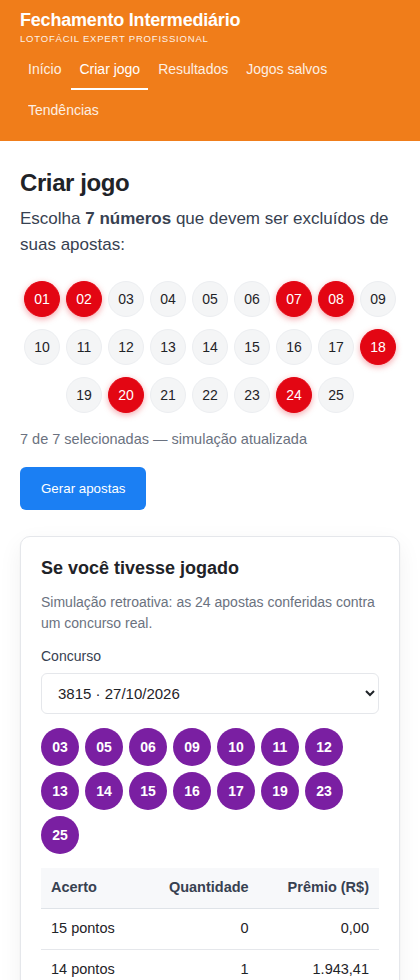
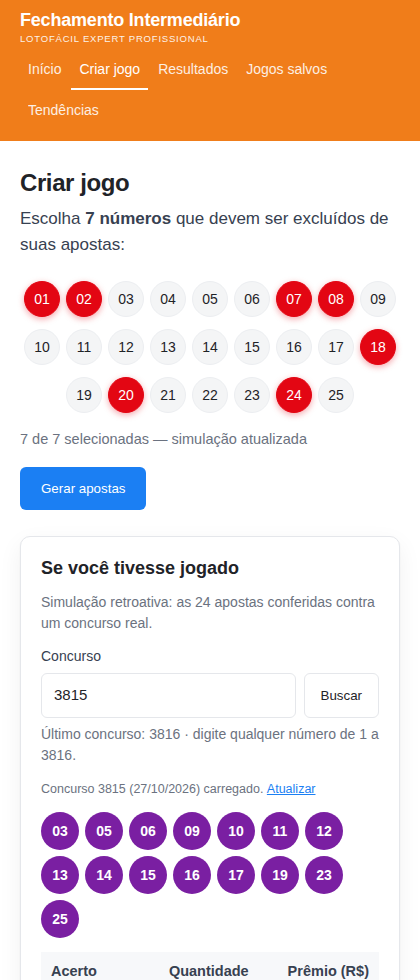
Busca de concurso por número, base até o 3816 e atualização automática

Changed region(s): [[0.0929, 0.7041, 0.8976, 1.0], [0.4024, 0.9796, 0.5881, 1.0]]

diff --git a/app.js b/app.js
@@ -242,22 +242,17 @@
   }
 
   /* ---------------- criar / simulação ---------------- */
-  function buildConcursoOptions() {
-    var select = $('#sel-concurso');
-    select.innerHTML = '';
-    HISTORY.slice(-100).reverse().forEach(function (row) {
+  function buildConcursoList() {
+    var list = $('#lista-concursos');
+    list.innerHTML = '';
+    var frag = document.createDocumentFragment();
+    for (var i = HISTORY.length - 1; i >= 0; i--) {
       var opt = document.createElement('option');
-      opt.value = String(row[0]);
-      opt.textContent = row[0] + ' · ' + row[1];
-      select.appendChild(opt);
-    });
-    if (state.concurso && !BY_CONCURSO[state.concurso]) {
-      var fallback = document.createElement('option');
-      fallback.value = String(state.concurso);
-      fallback.textContent = String(state.concurso);
-      select.appendChild(fallback);
+      opt.value = String(HISTORY[i][0]);
+      opt.label = HISTORY[i][1];
+      frag.appendChild(opt);
     }
-    select.value = String(state.concurso);
+    list.appendChild(frag);
   }
 
   function setUpdateStatus(text) {
@@ -272,6 +267,34 @@
   }
 
   var lastRefresh = 0;
+  var pendingConcurso = null;
+
+  function applyConcurso(value) {
+    var n = parseInt(String(value || '').trim(), 10);
+    if (!isFinite(n) || n < 1) {
+      toast('Digite um número de concurso válido.');
+      return;
+    }
+    if (BY_CONCURSO[n]) {
+      pendingConcurso = null;
+      state.concurso = n;
+      saveState();
+      renderBalls();
+      updateSimulation();
+      renderResultados();
+      $('#inp-concurso').value = String(n);
+      setUpdateStatus('Concurso ' + n + ' (' + BY_CONCURSO[n][1] + ') carregado.');
+      return;
+    }
+    if (n > LATEST) {
+      pendingConcurso = n;
+      refreshLatest(false);
+      setUpdateStatus('Concurso ' + n + ' ainda não está na base (último: ' + LATEST + '). Verificando…');
+      return;
+    }
+    setUpdateStatus('Concurso ' + n + ' não encontrado na base.');
+    toast('Concurso ' + n + ' não encontrado.');
+  }
 
   function refreshLatest(manual) {
     lastRefresh = Date.now();
@@ -301,11 +324,20 @@
             var previous = LATEST;
             addRow(row);
             persistExtras();
+            buildConcursoList();
             if (state.concurso === previous) state.concurso = row[0];
+            if (pendingConcurso && BY_CONCURSO[pendingConcurso]) {
+              state.concurso = pendingConcurso;
+              pendingConcurso = null;
+            }
             saveState();
             setUpdateStatus('Atualizado agora: concurso ' + row[0] + ' (' + row[1] + ').');
             rerender();
             if (manual) toast('Novo resultado incluído: concurso ' + row[0] + '.');
+          } else if (pendingConcurso) {
+            setUpdateStatus('O concurso ' + pendingConcurso + ' ainda não saiu. Último: ' + LATEST +
+              ' (' + (rowOf(LATEST) ? rowOf(LATEST)[1] : '—') + ').');
+            pendingConcurso = null;
           } else {
             setUpdateStatus('Base em dia: concurso ' + LATEST + ' (' + (rowOf(LATEST) ? rowOf(LATEST)[1] : '—') + ').');
             if (manual) toast('Já está atualizado com o último concurso.');
@@ -321,7 +353,8 @@
     paintVolante();
     updatePickerStatus();
     if (!BY_CONCURSO[state.concurso]) state.concurso = LATEST;
-    buildConcursoOptions();
+    $('#inp-concurso').value = String(state.concurso);
+    $('#concurso-hint').textContent = 'Último concurso: ' + LATEST + ' · digite qualquer número de 1 a ' + LATEST + '.';
     $('#inp-preco').value = String(state.price);
     renderBalls();
     updateSimulation();
@@ -707,12 +740,9 @@
       if (!ensureGeneration()) { toast('Selecione as 7 dezenas.'); return; }
       show('resultados');
     });
-    $('#sel-concurso').addEventListener('change', function (e) {
-      state.concurso = Number(e.target.value);
-      renderBalls();
-      updateSimulation();
-      renderResultados();
-      saveState();
+    $('#btn-buscar').addEventListener('click', function () { applyConcurso($('#inp-concurso').value); });
+    $('#inp-concurso').addEventListener('keydown', function (e) {
+      if (e.key === 'Enter') { e.preventDefault(); applyConcurso(this.value); }
     });
     $('#inp-preco').addEventListener('change', function (e) {
       var v = parseFloat(e.target.value);
@@ -755,6 +785,7 @@
     loadExtras();
     bind();
     buildVolante();
+    buildConcursoList();
     if (!BY_CONCURSO[state.concurso]) state.concurso = LATEST;
     if (state.excluded.length === E.EXCLUDED_COUNT) ensureGeneration();
     renderCriar();

diff --git a/index.html b/index.html
@@ -117,9 +117,16 @@
           <div class="card">
             <h2>Se você tivesse jogado</h2>
             <p class="muted small">Simulação retroativa: as 24 apostas conferidas contra um concurso real.</p>
-            <label class="field">Concurso
-              <select id="sel-concurso"></select>
-            </label>
+            <div class="field">
+              <label for="inp-concurso">Concurso</label>
+              <div class="search-row">
+                <input id="inp-concurso" type="text" inputmode="numeric" list="lista-concursos"
+                       placeholder="Ex.: 3816" autocomplete="off">
+                <button type="button" class="btn btn--ghost" id="btn-buscar">Buscar</button>
+              </div>
+              <datalist id="lista-concursos"></datalist>
+              <p class="muted small" id="concurso-hint"></p>
+            </div>
             <p class="update"><span id="update-status" aria-live="polite">Verificando novos resultados…</span>
               <button type="button" class="link" id="btn-refresh">Atualizar</button></p>
             <div class="balls" id="draw-balls" hidden></div>

diff --git a/styles.css b/styles.css
@@ -144,6 +144,10 @@ code { font-family: ui-monospace, SFMono-Regular, Menlo, monospace; font-size: 1
 .field-actions { display: flex; gap: 8px; align-items: center; margin-top: 12px; flex-wrap: wrap; }
 .error { color: #b91c1c; font-size: 14px; margin: 10px 0 0; }
 
+.search-row { display: flex; gap: 8px; }
+.search-row input { flex: 1 1 auto; min-width: 0; }
+.search-row .btn { padding: 10px 16px; white-space: nowrap; }
+
 .update { font-size: 12.5px; color: var(--muted); margin: 2px 0 0; }
 .update .link { font-size: 12.5px; }
 

diff --git a/README.md b/README.md
@@ -15,6 +15,7 @@ dependências, sem servidor, sem build — e com o **histórico real** dos concu
   faixa, prêmio oficial do concurso, custo e **saldo (lucro/prejuízo)**.
 - **Histórico real da Caixa**: 3.815 concursos (29/09/2003 a 27/10/2026), com as 15 dezenas e os
   valores de premiação de cada faixa.
+- **Busca por concurso**: digite qualquer número (1 a 3.816) no campo e clique em Buscar; o app carrega aquele resultado.
 - **Pares/ímpares por aposta**: cada cartão mostra `Aposta 6 (4p 11i)`.
 - **Conferência por aposta**: selo com os pontos feitos no concurso escolhido.
 - **Exportação** com pares, ímpares, acertos, custo e saldo.
@@ -92,8 +93,9 @@ dois grupos) → alguma aposta omite só dezenas não sorteadas → **14 ou 15 p
 
 ## Simulação retroativa (a tabela do esboço)
 
-No seletor da tela **Criar jogo** há os 100 concursos mais recentes. Para o concurso escolhido, o
-app usa as dezenas sorteadas e os **valores oficiais de premiação** daquele concurso. Exemplo real
+No campo **Concurso** da tela **Criar jogo** você digita qualquer número (1 a 3.816) e clica em
+Buscar — ou usa as sugestões do histórico. Para o concurso escolhido, o app usa as dezenas
+sorteadas e os **valores oficiais de premiação** daquele concurso. Exemplo real
 (concurso 3815, excluídas `01 02 07 08 18 20 24`):
 
 | Faixa | Quantidade | Prêmio |
@@ -112,7 +114,7 @@ O **preço por aposta** é editável (padrão R$ 3,50) e entra no cálculo de cu
 
 ## Tendências com histórico real
 
-Base embutida: **3.815 concursos** (concurso 1, de 29/09/2003, até o 3815, de 27/10/2026), com
+Base embutida: **3.816 concursos** (concurso 1, de 29/09/2003, até o 3816, de 28/10/2026), com
 fonte `loteriascaixa-api` (espelho dos dados da Caixa). A tela mostra frequência por dezena em
 janelas de 10 a 100 concursos, marcação quente/frio e sugere as 7 menos frequentes.
 
@@ -141,7 +143,8 @@ O app se atualiza sozinho, em três camadas:
 
 Além disso, o workflow `.github/workflows/atualizar-historico.yml` (na branch `main`) regenera
 `data/historico.js` **a cada 6 horas**, para que até as janelas longas de tendências (50/100
-concursos) fiquem completas mesmo para quem visita raramente.
+concursos) fiquem completas mesmo para quem visita raramente. Se você digitar um concurso que
+ainda não saiu, o app avisa e consulta a Caixa na hora.
 
 Limites: depende da API da Caixa estar no ar (o fallback pode atrasar até ~20 min) e resultados
 muito antigos que não passaram pelo app só entram na base pelo workflow de 6 horas.
